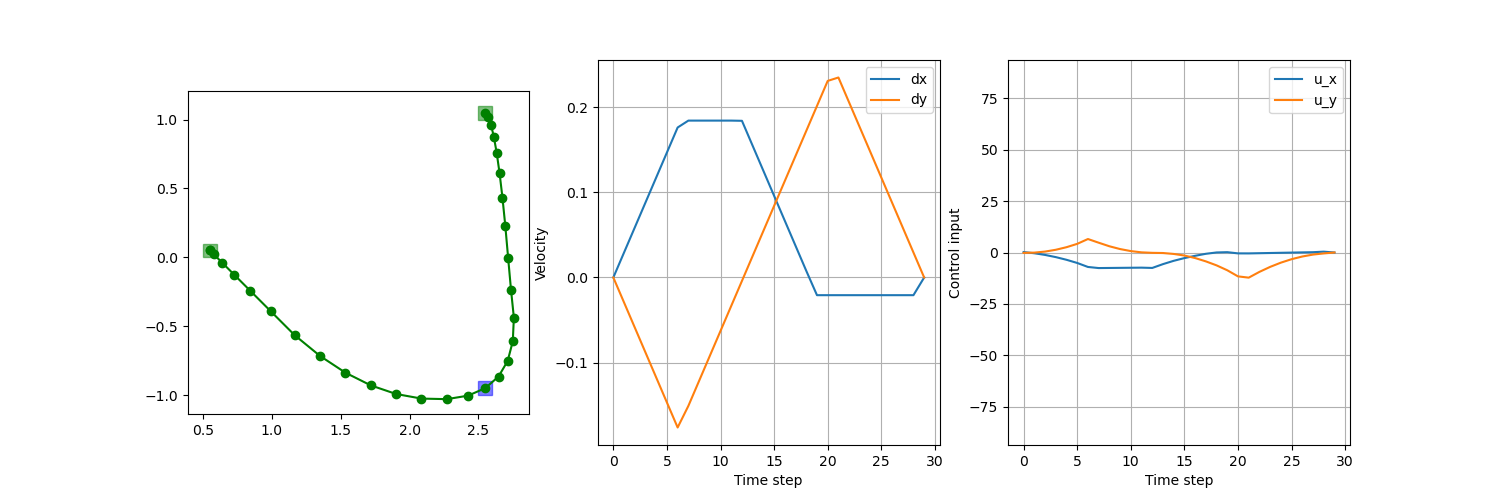
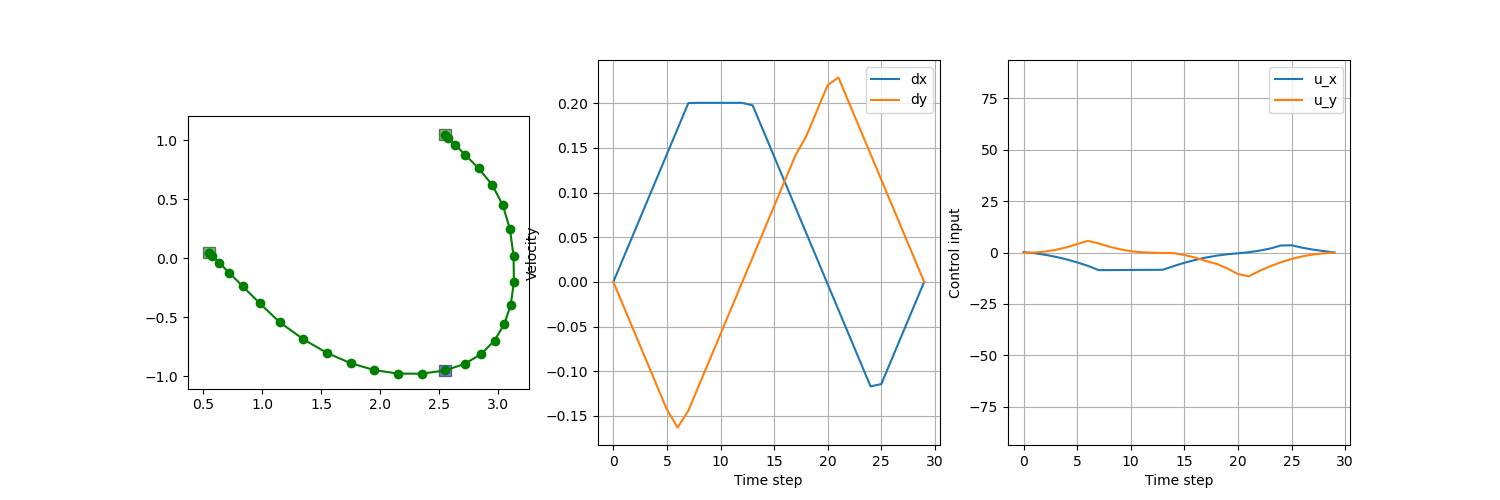
extended rotation conversions with euler convention argument

diff --git a/stl_mapping/Planning/main.py b/stl_mapping/Planning/main.py
@@ -49,6 +49,8 @@ sp_robot = LinearFreeFlyer6DoF()
 # ])
 # spec = Spec(phi, t0, tf)
 
+euler_order = 'zyx'
+
 X0 = HyperRectangle(np.array([0.5, 0, 0]), np.array([0.6, 0.1, 0.1]))
 Xf = HyperRectangle(np.array([2.5, 1.0, 0]), np.array([2.6, 1.1, 0.1]))
 XA = HyperRectangle(np.array([2.5, -1.0, 0,  -np.pi/2-np.pi/8]), np.array([2.6, -0.9, 0.1,  -np.pi/2+np.pi/8]))
@@ -57,7 +59,7 @@ World = HyperRectangle(np.array([0, -1.5, -10, -10]), np.array([4, 1.5, 10, 10])
 phi = Pred("AND", preds=[
     Pred("G", [t0,t0], preds=[Pred("MU", preds=[Polytope(X0)], dims=[0,1,2])]),
     Pred("G", [tf,tf], preds=[Pred("MU", preds=[Polytope(Xf)], dims=[0,1,2])]),
-    Pred("F", [t0,tf], preds=[Pred("MU", preds=[Polytope(XA)], dims=[0,1,2, 5])]),
+    Pred("F", [t0,tf], preds=[Pred("MU", preds=[Polytope(XA)], dims=[0,1,2, 5])]), # 3: pitch, 4: roll, 5: yaw
     Pred("G", [t0,tf], preds=[Pred("MU", preds=[Polytope(World)], dims=[0,1,6,7])]),
 ])
 spec = Spec(phi, t0, tf)
@@ -148,9 +150,12 @@ axs[1].set_ylabel('Velocity')
 axs[1].legend()
 axs[1].grid()
 
-axs[2].plot(t_sp, x_ff[:, 3], label='pitch')
-axs[2].plot(t_sp, x_ff[:, 4], label='roll')
-axs[2].plot(t_sp, x_ff[:, 5], label='yaw')
+axs[2].plot(t_sp, x_ff[:, 3], 'r', label='pitch')
+axs[2].plot(t_sp, x_ff[:, 4], 'g', label='roll')
+axs[2].plot(t_sp, x_ff[:, 5], 'b', label='yaw')
+axs[2].plot(t_sp, x_ff[:, 9], 'r--', label='d_pitch')
+axs[2].plot(t_sp, x_ff[:, 10], 'g--', label='d_roll')
+axs[2].plot(t_sp, x_ff[:, 11], 'b--', label='d_yaw')
 axs[2].set_xlabel('Time step')
 axs[2].set_ylabel('Euler angles (rad)')
 axs[2].legend()
@@ -174,10 +179,11 @@ plt.savefig("stl_mapping/Planning/figures/sp_trajectory.png")
 # Now we have pitch-roll-yaw angles which we want to convert to unit quaternion
 x_ff_quat = np.zeros((x_ff.shape[0], x_ff.shape[1] + 1))
 for i in range(x_ff.shape[0]):
-    x_ff_quat[i,:] = euler_x_to_quat_x_np(x_ff[i, :])
-print(f"quat: {x_ff_quat[:, 3:7]}")
-print(f"euler: {np.array([quat_to_euler_np(x[3:7]) for x in x_ff_quat])}")
-# print(np.linalg.norm(x_ff_quat[:, 3:7],axis=1))  # should be close to 1
+    x_ff_quat[i,:] = euler_x_to_quat_x_np(x_ff[i, :],order=euler_order)
+print(f"euler: {x_ff[:, 3:6]}")
+print(f"quat:  {x_ff_quat[:, 3:7]}")
+print(f"euler: {np.array([quat_to_euler_np(x[3:7], order=euler_order) for x in x_ff_quat])}")
+# print(np.linalg.norm(x_ff_quat[:, 3:7],axis=1))  # should be 1
 
 np.savez('stl_mapping/Planning/solutions/sp_solution_quat.npz', x_ff=x_ff_quat, u_ff=u_ff, dt=dt, alpha=alpha, times=t_sp)
 
@@ -245,9 +251,9 @@ u_max = np.max(np.abs(u_uw_fbl_sp), axis=0)
 print(f"\nAlpha if u_sp applied to BlueROV directly: {np.max(u_max/uw_robot.U.upper_bounds)}")
 print(f"This is lower because BlueROV is faster than free flyer")
 
-u_uw = np.array([u_fbl(x_uw_fbl_sp[i,:],u_uw_fbl_sp[i,:])[0:2].squeeze() for i in range(N)])
+u_uw = np.array([u_fbl(x_uw_fbl_sp[i,:],u_uw_fbl_sp[i,:]) for i in range(N)]).squeeze()
 u_max = np.max(np.abs(u_uw), axis=0)
-print(f"\nAlpha if u_fbl(x_sp,u_sp) applied to BlueROV directly: {np.max(u_max/uw_robot.U.upper_bounds[0:2])}")
+print(f"\nAlpha if u_fbl(x_sp,u_sp) applied to BlueROV directly: {np.max(u_max/uw_robot.U.upper_bounds)}")
 print(f"U should become {np.max(u_max)/alpha} for same alpha (was {uw_robot.U.upper_bounds[0]}) which is {(np.max(u_max)/alpha)/uw_robot.U.upper_bounds[0]*100}%")
 
 # So now we have to find \phi (for now deltaT) such that

diff --git a/stl_mapping/Utilities/rotations.py b/stl_mapping/Utilities/rotations.py
@@ -1,6 +1,7 @@
 
 import casadi as cs
 import numpy as np
+from scipy.spatial.transform import Rotation as R
 
 def skew_symmetric(v):
     return cs.vertcat(cs.horzcat(0, -v[0], -v[1], -v[2]),
@@ -23,7 +24,7 @@ def v_dot_q(v, q):
 
     return cs.mtimes(rot_mat, v)
 
-def euler_to_quat_cs(pry):
+def euler_to_quat_cs(pry,order='zyz'):
     #TODO: check this function and if order matters
     """
     Convert Euler angles (roll, pitch, yaw) to quaternion (qw, qx, qy, qz).
@@ -44,25 +45,14 @@ def euler_to_quat_cs(pry):
 
     return cs.vertcat(qw, qx, qy, qz)  # return as (qw, qx, qy, qz)
 
-def euler_to_quat_np(pry):
+def euler_to_quat_np(pry, order='zyz'):
     """
     Convert Euler angles (roll, pitch, yaw) to quaternion (qw, qx, qy, qz).
     Angles are in radians.
     """
-    pitch, roll, yaw = pry[0], pry[1], pry[2]
-    cy = np.cos(yaw * 0.5)
-    sy = np.sin(yaw * 0.5)
-    cr = np.cos(roll * 0.5)
-    sr = np.sin(roll * 0.5)
-    cp = np.cos(pitch * 0.5)
-    sp = np.sin(pitch * 0.5)
-
-    qw = cy * cr * cp + sy * sr * sp
-    qx = cy * sr * cp - sy * cr * sp
-    qy = sy * cr * cp + cy * sr * sp
-    qz = sy * sr * cp - cy * cr * sp
-
-    return np.array([qw, qx, qy, qz])  # return as (qw, qx, qy, qz)
+    r = R.from_euler(order, pry, degrees=False)
+    q = r.as_quat(scalar_first=True)  # returns (qx, qy, qz, qw)
+    return q
 
 def quat_to_euler_cs(q):
     """
@@ -77,18 +67,14 @@ def quat_to_euler_cs(q):
 
     return cs.vertcat(roll, pitch, yaw)
 
-def quat_to_euler_np(q):
+def quat_to_euler_np(q,order='zyz'):
     """
     Convert quaternion (qw, qx, qy, qz) to Euler angles (roll, pitch, yaw).
     Angles are in radians.
     """
-    qw, qx, qy, qz = q[0], q[1], q[2], q[3]
-
-    roll = np.arctan2(2 * (qw * qx + qy * qz), 1 - 2 * (qx ** 2 + qy ** 2))
-    pitch = np.arcsin(2 * (qw * qy - qz * qx))
-    yaw = np.arctan2(2 * (qw * qz + qx * qy), 1 - 2 * (qy ** 2 + qz ** 2))
-
-    return np.array([roll, pitch, yaw])
+    q = R.from_quat(q, scalar_first=True)  # convert to scipy Rotation object
+    euler = q.as_euler(order, degrees=False)  # returns (
+    return euler
 
 def quat_x_to_euler_x_cs(x):
     # assumes x = [p, q, dp, dq]
@@ -111,22 +97,22 @@ def euler_x_to_quat_x_cs(x):
     )
     return quat_x
 
-def quat_x_to_euler_x_np(x):
+def quat_x_to_euler_x_np(x, order='zyz'):
     # assumes x = [p, q, dp, dq]
     euler_x = np.concatenate((
         x[0:3],                   # position
-        quat_to_euler_np(x[3:7]),    # euler angles
+        quat_to_euler_np(x[3:7], order=order),    # euler angles
         x[7:10],                  # linear velocity
         x[10:13]                  # angular velocity
     ))
     return euler_x
 
-def euler_x_to_quat_x_np(x):
+def euler_x_to_quat_x_np(x,order='zyz'):
     # assumes x = [p, q, dp, dq]
     p, q, dp, dq = x[0:3], x[3:6], x[6:9], x[9:12]
     quat_x = np.concatenate((
         p,                   # position
-        euler_to_quat_np(q),    # quaternion
+        euler_to_quat_np(q, order=order),    # quaternion
         dp,                  # linear velocity
         dq                   # angular velocity
     ))

diff --git a/stl_mapping/Utilities/Robots.py b/stl_mapping/Utilities/Robots.py
@@ -136,15 +136,19 @@ class LinearFreeFlyer6DoF(Robot):
 
     def add_state_constraints(self, prog:gp.Model, items:OptProbItems):
         for i in range(items.x_vars.shape[0]):
-            # Add constraints for roll and yaw to be between [-pi, pi]
+            # # Add constraints for roll and yaw to be between [-pi, pi]
+            # prog.addConstr(items.x_vars[i, 4] >= -np.pi, f"roll_lower_{i}")
+            # prog.addConstr(items.x_vars[i, 4] <= np.pi, f"roll_upper_{i}")
+            # prog.addConstr(items.x_vars[i, 5] >= -np.pi, f"yaw_lower_{i}")
+            # prog.addConstr(items.x_vars[i, 5] <= np.pi, f"yaw_upper_{i}")
+            # # Add constrains for pitch to be between [-pi/2, pi/2] (prevent gymbal lock)
+            # prog.addConstr(items.x_vars[i, 3] >= -np.pi/2, f"pitch_lower_{i}")
+            # prog.addConstr(items.x_vars[i, 3] <= np.pi/2, f"pitch_upper_{i}")
+            # Add constraints for roll to be 0
+            # TODO: make this a user-defined dimension (based on order of euler angles)
             prog.addConstr(items.x_vars[i, 4] >= -np.pi, f"roll_lower_{i}")
             prog.addConstr(items.x_vars[i, 4] <= np.pi, f"roll_upper_{i}")
-            prog.addConstr(items.x_vars[i, 5] >= -np.pi, f"yaw_lower_{i}")
-            prog.addConstr(items.x_vars[i, 5] <= np.pi, f"yaw_upper_{i}")
 
-            # Add constrains for pitch to be between [-pi/2, pi/2] (prevent gymbal lock)
-            prog.addConstr(items.x_vars[i, 3] >= -np.pi/2, f"pitch_lower_{i}")
-            prog.addConstr(items.x_vars[i, 3] <= np.pi/2, f"pitch_upper_{i}")
 
             # Add constraints for the angular velocities to be between [-pi/8, pi/8]
             prog.addConstr(items.x_vars[i, 9] >= -np.pi/8, f"p_lower_{i}")

diff --git a/stl_mapping/Utilities/sets.py b/stl_mapping/Utilities/sets.py
@@ -75,7 +75,7 @@ class HyperRectangle():
     
     def plot(self, ax:plt.Axes, color='blue', alpha=0.5):
         rect = plt.Rectangle(self.lower_bounds[:2], self.size[0], self.size[1], 
-                             alpha=alpha, color=color, lw=1, edgecolor='black')
+                             alpha=alpha, fc=color, lw=1, ec='black')
         ax.add_patch(rect)
 
 class Zonotope():
